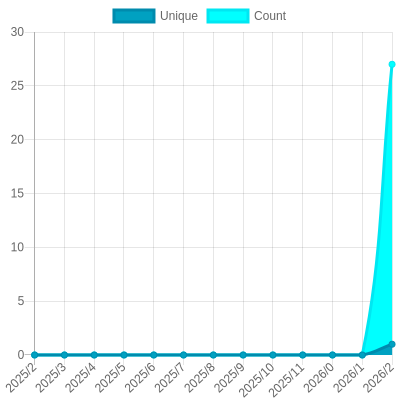
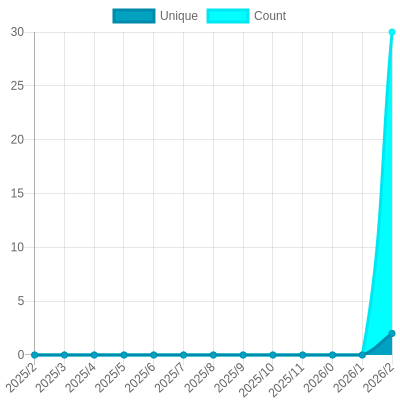
Update views

diff --git a/readme/941327057/year.md b/readme/941327057/year.md
@@ -23,10 +23,10 @@
 			<code>2025/3/1</code>
 		</td>
 		<td>
-			<code>1</code>
+			<code>2</code>
 		</td>
 		<td>
-			<code>27</code>
+			<code>30</code>
 		</td>
 	</tr>
 	<tr>
@@ -164,7 +164,7 @@
 </table>
 
 </details>
-<small><i>Last updated on 2025/3/4 1:43 AM UTC</i></small>
+<small><i>Last updated on 2025/3/4 6:30 AM UTC</i></small>
 
 ## ✂Copy and 📋 Paste
 ### SVG Badge

diff --git a/README.md b/README.md
@@ -245,7 +245,7 @@ The project created and maintained by [gayanvoice](https://github.com/gayanvoice
 	</tr>
 </table>
 
-<small><i>Last updated on 2025/3/4 1:44 AM UTC</i></small>
+<small><i>Last updated on 2025/3/4 6:31 AM UTC</i></small>
 
 ## ✂Copy and 📋 Paste
 ### Total Views Badge

diff --git a/readme/488043347/year.md b/readme/488043347/year.md
@@ -164,7 +164,7 @@
 </table>
 
 </details>
-<small><i>Last updated on 2025/3/4 1:43 AM UTC</i></small>
+<small><i>Last updated on 2025/3/4 6:30 AM UTC</i></small>
 
 ## ✂Copy and 📋 Paste
 ### SVG Badge

diff --git a/readme/488047529/year.md b/readme/488047529/year.md
@@ -164,7 +164,7 @@
 </table>
 
 </details>
-<small><i>Last updated on 2025/3/4 1:42 AM UTC</i></small>
+<small><i>Last updated on 2025/3/4 6:29 AM UTC</i></small>
 
 ## ✂Copy and 📋 Paste
 ### SVG Badge

diff --git a/readme/488062606/year.md b/readme/488062606/year.md
@@ -164,7 +164,7 @@
 </table>
 
 </details>
-<small><i>Last updated on 2025/3/4 1:43 AM UTC</i></small>
+<small><i>Last updated on 2025/3/4 6:30 AM UTC</i></small>
 
 ## ✂Copy and 📋 Paste
 ### SVG Badge

diff --git a/readme/488105366/year.md b/readme/488105366/year.md
@@ -164,7 +164,7 @@
 </table>
 
 </details>
-<small><i>Last updated on 2025/3/4 1:42 AM UTC</i></small>
+<small><i>Last updated on 2025/3/4 6:29 AM UTC</i></small>
 
 ## ✂Copy and 📋 Paste
 ### SVG Badge

diff --git a/readme/488346472/year.md b/readme/488346472/year.md
@@ -164,7 +164,7 @@
 </table>
 
 </details>
-<small><i>Last updated on 2025/3/4 1:43 AM UTC</i></small>
+<small><i>Last updated on 2025/3/4 6:30 AM UTC</i></small>
 
 ## ✂Copy and 📋 Paste
 ### SVG Badge

diff --git a/readme/488363582/year.md b/readme/488363582/year.md
@@ -164,7 +164,7 @@
 </table>
 
 </details>
-<small><i>Last updated on 2025/3/4 1:43 AM UTC</i></small>
+<small><i>Last updated on 2025/3/4 6:30 AM UTC</i></small>
 
 ## ✂Copy and 📋 Paste
 ### SVG Badge

diff --git a/readme/488368017/year.md b/readme/488368017/year.md
@@ -164,7 +164,7 @@
 </table>
 
 </details>
-<small><i>Last updated on 2025/3/4 1:43 AM UTC</i></small>
+<small><i>Last updated on 2025/3/4 6:30 AM UTC</i></small>
 
 ## ✂Copy and 📋 Paste
 ### SVG Badge

diff --git a/readme/488782926/year.md b/readme/488782926/year.md
@@ -164,7 +164,7 @@
 </table>
 
 </details>
-<small><i>Last updated on 2025/3/4 1:43 AM UTC</i></small>
+<small><i>Last updated on 2025/3/4 6:30 AM UTC</i></small>
 
 ## ✂Copy and 📋 Paste
 ### SVG Badge

diff --git a/readme/490287175/year.md b/readme/490287175/year.md
@@ -164,7 +164,7 @@
 </table>
 
 </details>
-<small><i>Last updated on 2025/3/4 1:42 AM UTC</i></small>
+<small><i>Last updated on 2025/3/4 6:30 AM UTC</i></small>
 
 ## ✂Copy and 📋 Paste
 ### SVG Badge

diff --git a/readme/491328736/year.md b/readme/491328736/year.md
@@ -164,7 +164,7 @@
 </table>
 
 </details>
-<small><i>Last updated on 2025/3/4 1:42 AM UTC</i></small>
+<small><i>Last updated on 2025/3/4 6:29 AM UTC</i></small>
 
 ## ✂Copy and 📋 Paste
 ### SVG Badge
